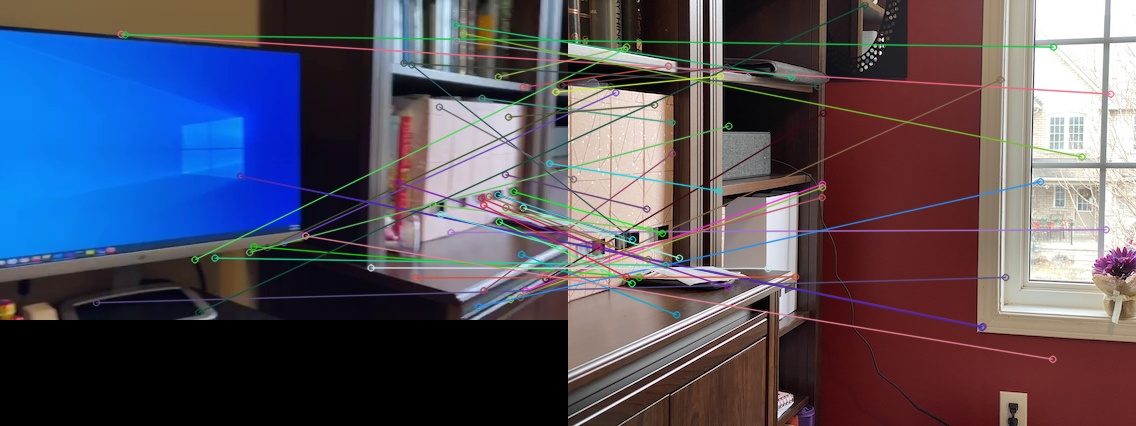
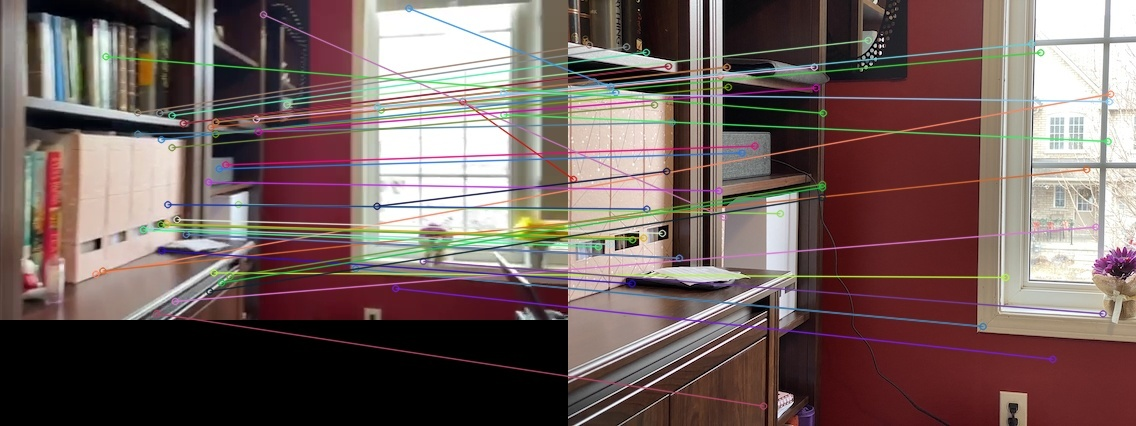
Fixed SIFT Bug

diff --git a/search.py b/search.py
@@ -40,7 +40,7 @@ class Search:
 
 		for obj in os.scandir(self.dataset_path):
 			imageFileName = obj.name
-			print("imageFileName:%s"%imageFileName)
+			#print("imageFileName:%s"%imageFileName)
 			imagePath = os.path.join(self.dataset_path, imageFileName)
 			image = cv2.imread(imagePath)
 			keypoints, descriptors = self.image_features.imageKeypoints(image)
@@ -55,6 +55,7 @@ class Search:
 			resultMatch = (int(imageId), len(matches))
 			resultMatches.append(resultMatch)
 			matchImages.insert(int(imageId),img3)
+			cv2.imwrite('static/matches/match_'+imageId+'.jpg', img3)
 
 		searcher = Searcher(self.index_path)
 		results = searcher.searchKeypoints(resultMatches)
@@ -63,7 +64,7 @@ class Search:
 			imgMatchedFileName = 'frame' + str(resultID) + '_match.jpg'
 			result = cv2.imread(self.dataset_path + "/" + imgFileName)
 			cv2.imwrite(self.result_path + "/" + imgFileName, result)
-			matchedImage = matchImages[resultID]
+			matchedImage = cv2.imread('static/matches/match_'+str(resultID)+'.jpg') #matchImages[resultID]
 			cv2.imwrite(self.result_path + "/" + imgMatchedFileName, matchedImage)
 			output.append(self.result_path + "/" + imgFileName)
 			matchOutput.append(self.result_path + "/" + imgMatchedFileName)
